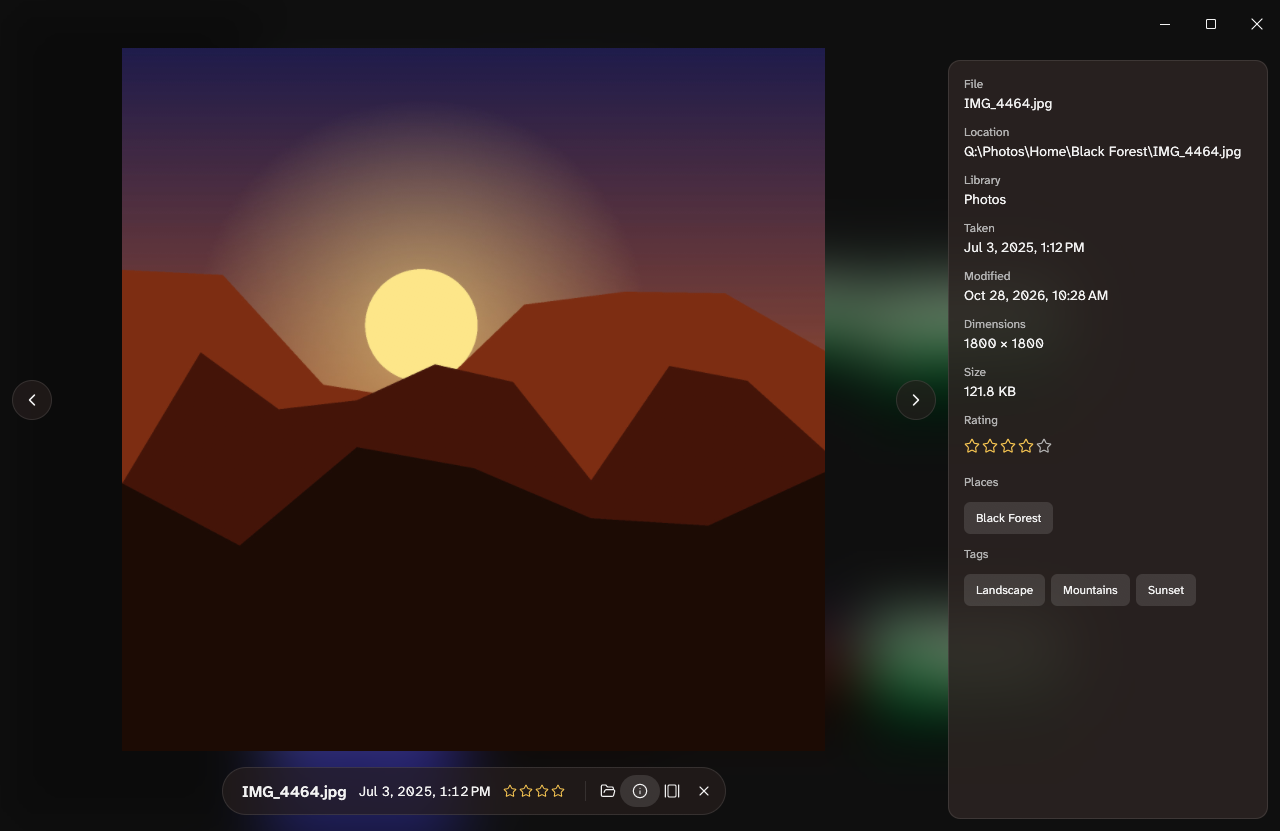
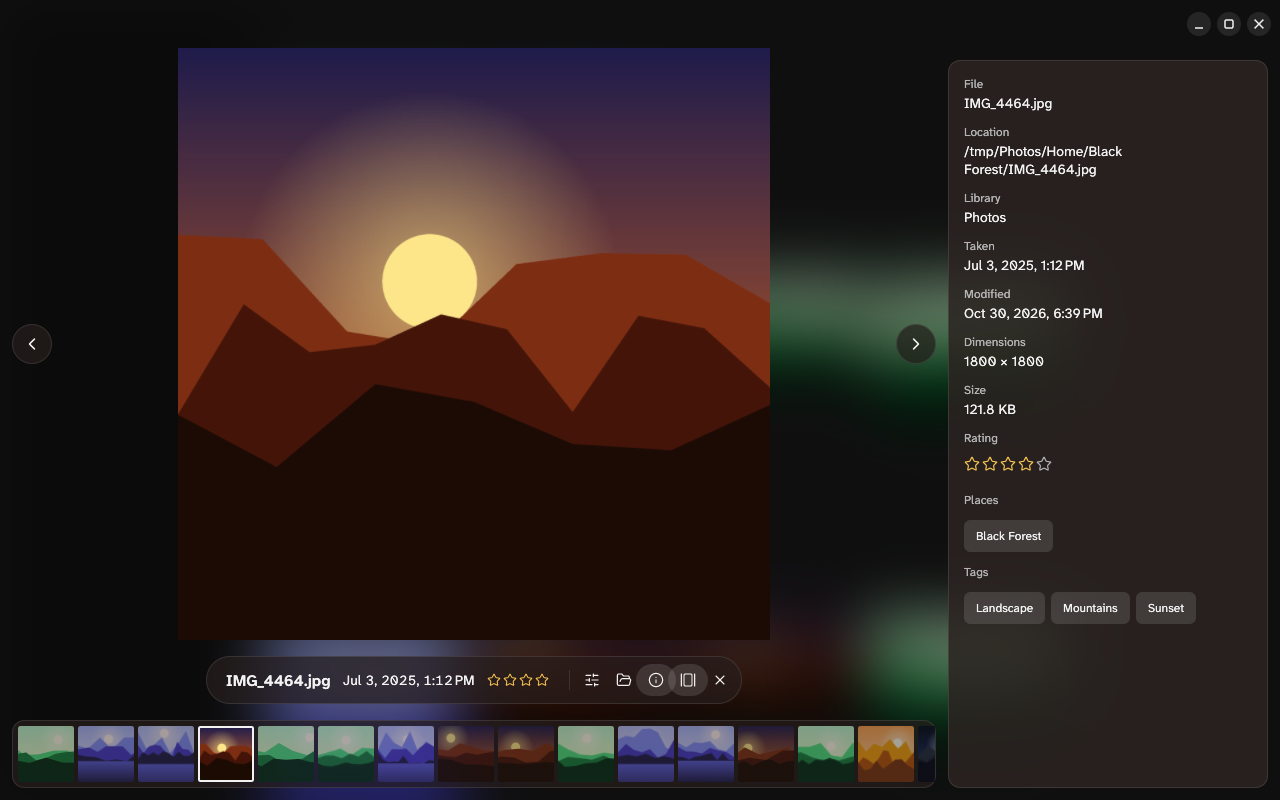
docs(readme): rewrite it, with editing, shortcuts and a screenshot of the editor
The screenshots script gains --edit (the viewer opens editing with a few
adjustments) and stores the filmstrip setting as the app reads it, so the
viewer screenshot shows the filmstrip.

diff --git a/crates/app/src/desktop.rs b/crates/app/src/desktop.rs
@@ -17,6 +17,7 @@ struct Options {
     bench_scroll: Option<f32>,
     view: Option<usize>,
     info: bool,
+    edit: bool,
     scroll: Option<f32>,
 }
 
@@ -124,6 +125,8 @@ struct GalleryApp {
     view: Option<usize>,
     /// `--info`: the viewer opens with its info panel.
     info: bool,
+    /// `--edit`: the viewer opens editing, with a few adjustments made (README screenshot).
+    edit: bool,
     /// `--scroll`: how far to scroll the gallery once it has loaded.
     scroll: Option<f32>,
     /// Windows' animation and transparency effects, followed while the app runs.
@@ -141,7 +144,18 @@ impl eframe::App for GalleryApp {
         {
             self.view = None;
             viewer.set_info_open(self.info);
+            if self.edit {
+                viewer.request_edit();
+            }
             self.state.viewer = Some(viewer);
+            ui.ctx().request_repaint();
+        }
+        if self.edit
+            && let Some(session) = self.state.viewer.as_mut().and_then(app::viewer::Viewer::editing_mut)
+            && session.is_loaded()
+        {
+            self.edit = false;
+            session.commit(demo_recipe());
             ui.ctx().request_repaint();
         }
         if let Some(offset) = self.scroll
@@ -205,9 +219,27 @@ fn default_data_dir() -> anyhow::Result<PathBuf> {
     Ok(app::startup::default_data_dir(&base, cfg!(feature = "packaged")))
 }
 
+/// The adjustments the `--edit` screenshot shows: a little brighter and warmer, with more punch.
+fn demo_recipe() -> domain::edit::Recipe {
+    use domain::edit::Adjustment;
+    let mut recipe = domain::edit::Recipe::default();
+    for (adjustment, value) in [
+        (Adjustment::Exposure, 0.35),
+        (Adjustment::Contrast, 20.0),
+        (Adjustment::Highlights, -30.0),
+        (Adjustment::Shadows, 25.0),
+        (Adjustment::Temperature, 12.0),
+        (Adjustment::Vibrance, 30.0),
+        (Adjustment::Vignette, -25.0),
+    ] {
+        adjustment.set(&mut recipe, value);
+    }
+    recipe
+}
+
 fn parse_args() -> anyhow::Result<Options> {
     const USAGE: &str = "usage: app [--data-dir <folder>] [--screenshot <file.png> [--screenshot-after <seconds>]] \
-                         [--bench-scroll <seconds>] [--view <position> [--info]] [--scroll <points>]";
+                         [--bench-scroll <seconds>] [--view <position> [--info] [--edit]] [--scroll <points>]";
     let mut args = std::env::args().skip(1);
     let mut data_dir = None;
     let mut screenshot = None;
@@ -215,6 +247,7 @@ fn parse_args() -> anyhow::Result<Options> {
     let mut bench_scroll = None;
     let mut view = None;
     let mut info = false;
+    let mut edit = false;
     let mut scroll = None;
     while let Some(arg) = args.next() {
         match arg.as_str() {
@@ -231,6 +264,7 @@ fn parse_args() -> anyhow::Result<Options> {
             }
             "--view" => view = Some(args.next().context(USAGE)?.parse().context(USAGE)?),
             "--info" => info = true,
+            "--edit" => edit = true,
             "--scroll" => scroll = Some(args.next().context(USAGE)?.parse().context(USAGE)?),
             other => anyhow::bail!("unknown argument {other} ({USAGE})"),
         }
@@ -246,6 +280,7 @@ fn parse_args() -> anyhow::Result<Options> {
         bench_scroll,
         view,
         info,
+        edit,
         scroll,
     })
 }
@@ -575,6 +610,7 @@ fn run(options: Options) -> anyhow::Result<()> {
                 bench: options.bench_scroll.map(Bench::new),
                 view: options.view,
                 info: options.info,
+                edit: options.edit,
                 scroll: options.scroll,
                 preferences: Default::default(),
             }))

diff --git a/xtask/src/screenshots.rs b/xtask/src/screenshots.rs
@@ -413,8 +413,10 @@ pub fn run(args: &[String]) -> anyhow::Result<()> {
         screenshot(&app, &data, &out.join(format!("{view}.png")), &[])?;
     }
     db::settings::set_value(&conn, "gallery.view", &serde_json::Value::from("masonry"))?;
-    db::settings::set_value(&conn, "viewer.filmstrip", &serde_json::Value::from(true))?;
+    db::settings::set_value(&conn, "viewer.filmstrip", &serde_json::Value::from("shown"))?;
     screenshot(&app, &data, &out.join("viewer.png"), &["--view", "3", "--info"])?;
+    db::settings::set_value(&conn, "viewer.filmstrip", &serde_json::Value::from("hidden"))?;
+    screenshot(&app, &data, &out.join("edit.png"), &["--view", "5", "--edit"])?;
     Ok(())
 }
 

diff --git a/crates/app/src/viewer.rs b/crates/app/src/viewer.rs
@@ -337,6 +337,11 @@ impl Viewer {
         }
     }
 
+    /// Starts editing the shown photo with the next frame, as `e` does.
+    pub fn request_edit(&mut self) {
+        self.toggle_edit = true;
+    }
+
     /// The edit of the shown photo, while editing (spec 021).
     pub fn editing(&self) -> Option<&EditSession> {
         self.edit.as_ref()

diff --git a/README.md b/README.md
@@ -1,110 +1,140 @@
 # Good Gallery
 
-A desktop gallery for large photo and video libraries on Windows and Linux.  
-Media appear in a virtualized masonry, justified, grid or list view. Libraries on network shares are supported, and thumbnails are cached locally. Search uses the tags that are already embedded in your files.
+A fast desktop gallery for large photo and video libraries, from a few thousand files to half a million, on local disks or network shares. It finds photos by the tags, ratings and dates already in your files, and lets you touch them up without opening another program.
 
-There's also a web version available for you to try it out (all your data still stays local): Try it without installing at [flayms.github.io/Good-Gallery](https://flayms.github.io/Good-Gallery/)
+Runs on Windows and Linux. To try it without installing, open the [web version](https://flayms.github.io/Good-Gallery/): your photos stay on your computer.
 
-[Try the web version](https://good-gallery-web.example.com)
+Written in Rust (egui on wgpu).
 
-Built in Rust with eframe / egui on wgpu.
-
-![Masonry view with the sidebar showing libraries, people, places, ratings and tags](docs/screenshots/masonry.png)
+![The masonry view with the sidebar: libraries, people, places, ratings and tags](docs/screenshots/masonry.png)
 
 ## Features
 
-- **Views:** Masonry (columns), Justified (rows of equal height), Grid (square tiles) and List (details). All are virtualized, so they stay fast at any library size. Media are grouped by day, with the date and the number of photos and videos above each day. Switch views, zoom, sort and grouping under _View_, or zoom with Ctrl + mouse wheel. Hold the middle mouse button and move the pointer to autoscroll, as in a browser.
-- **Network shares:** libraries can live on `\\server\share`. Thumbnails (WebP and ThumbHash placeholders) are cached locally, and the cached index stays browsable while a share is offline.
-- **Change detection:** a file watcher picks up changes, plus periodic quick scans. Manual rescans are also possible.
-- **Search:** combine tags (include or exclude, hierarchical), file name text and folder; media type, date range and rating are under _Filters_. Sort by date taken, date modified, name, path or size.
-- **Sidebar:** libraries with a folder tree, People and Places (from keyword hierarchies and face regions), ratings and popular tags. Hide it with the button in its header or Ctrl + B.
-- **Viewer:** the photo floats over the blurred window, with controls that step aside while you look. Keyboard navigation, an optional filmstrip to jump through the gallery, zoom and pan, video playback, a metadata panel and "Show in Explorer".
-- **Look:** neutral chrome so only your photos bring color, dark or light (following your system, or chosen in the settings); the toolbar and menus are frosted glass over the gallery, and the viewer is always dark.
-- **Read-only:** tags and ratings come from EXIF / IPTC / XMP and `.xmp` sidecars. Files are never modified.
+- **Four views:** Masonry, Justified, Grid and List, grouped by day. Scrolling stays smooth with hundreds of thousands of items.
+- **Libraries anywhere:** add local folders or network shares (`\\server\share`). Thumbnails are cached on your computer, so an offline share stays browsable.
+- **Always up to date:** changes on disk are picked up as they happen, with periodic checks for anything missed.
+- **Search by what's in your files:** tags from EXIF, IPTC, XMP and `.xmp` sidecars (Lightroom, digiKam, darktable and others), including hierarchies like `Places|Italy|Rome` and face regions as _People_. Filter by file name, folder, date, rating and type, and sort by date, name, path or size.
+- **Viewer:** step through the gallery, zoom and pan, play videos, see a photo's details and a filmstrip of the gallery.
+- **Editing:** exposure, contrast, highlights, shadows, whites and blacks; tone curves; white balance, vibrance and saturation; grain and vignette. Save as a copy, or over the original, which is kept so you can revert. Edits stay editable, and metadata and color profiles are kept.
+- **Light or dark,** following your system.
 
-| Justified                                                             | Grid                                                     |
-| --------------------------------------------------------------------- | -------------------------------------------------------- |
-| ![Justified view](docs/screenshots/justified.png)                     | ![Grid view](docs/screenshots/grid.png)                  |
-| **List**                                                              | **Viewer**                                               |
-| ![List view with dates, sizes and ratings](docs/screenshots/list.png) | ![Viewer with the info panel](docs/screenshots/viewer.png) |
+Good Gallery doesn't write tags or ratings. It only writes files when you save or revert an edit.
 
-Supported formats: JPEG, PNG, WebP, GIF and AVIF images, plus videos (MP4, MOV, MKV, WebM and more, with poster-frame thumbnails).
+| Justified                                                   | Grid                                                                     |
+| ----------------------------------------------------------- | ------------------------------------------------------------------------ |
+| ![Justified view](docs/screenshots/justified.png)           | ![Grid view](docs/screenshots/grid.png)                                  |
+| **List**                                                    | **Viewer**                                                               |
+| ![List view](docs/screenshots/list.png)                     | ![Viewer with the info panel and filmstrip](docs/screenshots/viewer.png) |
+| **Editing**                                                 |                                                                          |
+| ![Editing a photo in the viewer](docs/screenshots/edit.png) |                                                                          |
+
+**Formats:** JPEG, PNG, WebP, GIF and AVIF photos; MP4, M4V, MOV, WebM and MKV videos. JPEG, PNG and WebP photos can be edited.
 
 ## Install
 
+### Windows
+
 Download from the [releases](https://github.com/Flayms/Good-Gallery/releases) (Windows 10 or 11, 64-bit):
 
-- **`good-gallery-<version>-windows-x64-setup.exe`:** installs for your user (no admin rights), into a folder you can change, with a Start menu shortcut. Uninstall it under _Settings → Apps_.
-- **`good-gallery-<version>-windows-x64-portable.zip`:** extract anywhere and run `good-gallery.exe`.
+- **`good-gallery-<version>-windows-x64-setup.exe`** installs for your user, without admin rights.
+- **`good-gallery-<version>-windows-x64-portable.zip`** runs from wherever you extract it.
 
-exiftool, ffmpeg and libmpv come with both. The downloads aren't code-signed yet, so Windows SmartScreen may warn: choose _More info_ → _Run anyway_, or unblock the zip (_Properties_ → _Unblock_) before extracting.
+Both include exiftool, ffmpeg and libmpv. The downloads aren't code-signed yet, so SmartScreen may warn: choose _More info_ → _Run anyway_ (for the zip: _Properties_ → _Unblock_ before extracting).
 
-Add a library folder under **Settings**. The index, settings, thumbnails and logs live in `%APPDATA%\good-gallery`. Updates keep using it, so nothing is indexed twice. Uninstalling keeps that folder.
+Your index, settings and thumbnails live in `%APPDATA%\good-gallery`. Updates reuse it, and uninstalling leaves it in place.
 
 ### Linux
 
-**`good-gallery-<version>-linux-x64.tar.gz`** (x86-64, X11 or Wayland) uses your distribution's exiftool, ffmpeg and libmpv. Install them first, e.g. on Ubuntu or Debian `sudo apt install libimage-exiftool-perl ffmpeg libmpv2`. Extract the archive and run `./good-gallery`, or `./install.sh` to install it for your user with an app menu entry (`./install.sh --uninstall` removes it). The data folder is `~/.local/share/good-gallery`.
+Download **`good-gallery-<version>-linux-x64.tar.gz`** (x86-64, X11 or Wayland). It uses your distribution's helpers; on Ubuntu or Debian:
+
+```sh
+sudo apt install libimage-exiftool-perl ffmpeg libmpv2
+```
+
+Extract the archive and run `./good-gallery`, or `./install.sh` to add it to your app menu (`./install.sh --uninstall` removes it). Data lives in `~/.local/share/good-gallery`.
 
 ### In the browser
 
-Try it without installing at **[flayms.github.io/Good-Gallery](https://flayms.github.io/Good-Gallery/)**: pick a folder of photos and videos, and the same gallery, search, sidebar and viewer run in the page. There is no server. The index and thumbnails stay in your browser's storage, and nothing leaves your computer (the page's content security policy forbids it any other connection). It works in current Chrome, Edge, Firefox and Safari on a computer. Chrome and Edge remember the folder between visits (after one confirmation); in Firefox and Safari you pick it again to view originals or rescan. The browser version reads what the browser can show (JPEG, PNG, WebP, GIF, AVIF; MP4, WebM and, where the browser plays it, MOV) and is meant for libraries up to about 20,000 files; network shares, watchers and scheduled checks are desktop only.
+Try it at **[flayms.github.io/Good-Gallery](https://flayms.github.io/Good-Gallery/)** without installing anything. Pick a folder and browse it with the same gallery, search and viewer. Nothing is uploaded: the index and thumbnails stay in your browser. It works in current Chrome, Edge, Firefox and Safari, for folders up to about 20,000 files. Network shares and editing need the desktop app.
+
+## Getting started
+
+Open **Settings**, add a folder as a library and wait for the first indexing to finish. Then:
+
+| Where   | Key                           | Does                                |
+| ------- | ----------------------------- | ----------------------------------- |
+| Gallery | Ctrl + mouse wheel            | Bigger or smaller tiles             |
+| Gallery | Hold the middle mouse button  | Autoscroll                          |
+| Gallery | Ctrl + B                      | Hide or show the sidebar            |
+| Gallery | Enter, or a click             | Open in the viewer                  |
+| Viewer  | ← / →                         | Previous / next                     |
+| Viewer  | + / − / 0, mouse wheel, click | Zoom in, out, fit                   |
+| Viewer  | I / F                         | Info panel / filmstrip              |
+| Viewer  | Space, ↑ / ↓                  | Play or pause a video, volume       |
+| Viewer  | E                             | Edit the photo                      |
+| Viewer  | Esc                           | Close (while editing: stop editing) |
+| Editing | Ctrl + Z / Ctrl + Shift + Z   | Undo / redo                         |
+| Editing | Hold \\                       | Compare with the original           |
+| Editing | Double-click a slider         | Reset it                            |
+
+Edited photos saved over their original show _Revert to original_ in the info panel.
 
 ## Development
 
 ### Requirements
 
-**Everywhere:** Rust through [rustup](https://rustup.rs). `rust-toolchain.toml` pins the version, and the first `cargo` command installs it.
+- **Rust** through [rustup](https://rustup.rs); `rust-toolchain.toml` pins the version.
+- **Windows:** the MSVC build tools with the Windows SDK:
 
-**Windows:**
+  ```powershell
+  winget install Microsoft.VisualStudio.2022.BuildTools --override "--wait --passive --add Microsoft.VisualStudio.Workload.VCTools --includeRecommended"
+  ```
 
-- The MSVC C++ build tools with the Windows SDK:
-  `winget install Microsoft.VisualStudio.2022.BuildTools --override "--wait --passive --add Microsoft.VisualStudio.Workload.VCTools --includeRecommended"`
-- The helpers (exiftool for indexing, ffmpeg for video thumbnails, libmpv for playback): run `./packaging/fetch-helpers.ps1` once. It puts them in `target/helpers/`. For `cargo run` and the tests, point `GOOD_GALLERY_EXIFTOOL`, `GOOD_GALLERY_FFMPEG` and `GOOD_GALLERY_MPV` at the files there, or put the programs on `PATH`. Without them, the tests that need them skip.
-- For the installer (`cargo xtask dist`): [NSIS](https://nsis.sourceforge.io), `winget install NSIS.NSIS`, or set `MAKENSIS` to a `makensis.exe`. `cargo xtask dist --no-installer` builds only the portable zip.
+  Run `./packaging/fetch-helpers.ps1` once for exiftool, ffmpeg and libmpv (into `target/helpers/`), then point `GOOD_GALLERY_EXIFTOOL`, `GOOD_GALLERY_FFMPEG` and `GOOD_GALLERY_MPV` at them or put them on `PATH`. Tests that need a missing helper skip themselves. The installer needs [NSIS](https://nsis.sourceforge.io) (`winget install NSIS.NSIS`).
 
-**Linux (Ubuntu):**
+- **Linux (Ubuntu):**
 
-- `sudo apt install build-essential pkg-config libimage-exiftool-perl ffmpeg libmpv2 mesa-vulkan-drivers`. The helpers come from the system here. `mesa-vulkan-drivers` gives the snapshot tests a software GPU.
-- Optional: `xvfb`, so that `--screenshot` runs without a display.
+  ```sh
+  sudo apt install build-essential pkg-config libimage-exiftool-perl ffmpeg libmpv2 mesa-vulkan-drivers xvfb
+  ```
 
-**Browser version:**
+  `mesa-vulkan-drivers` gives the snapshot tests a software GPU; `xvfb` runs `--screenshot` without a display.
 
-- The `wasm32-unknown-unknown` target (`rust-toolchain.toml` installs it)
-- clang (compiles SQLite for wasm)
-- [Trunk](https://trunkrs.dev): `cargo install --locked trunk`
-- For its tests, Node.js with `npm`. On Linux, Playwright's Chromium needs `sudo npx playwright install-deps chromium` once.
+- **Browser version:** clang, [Trunk](https://trunkrs.dev) (`cargo install --locked trunk`), and Node.js for its tests (on Linux once: `sudo npx playwright install-deps chromium`).
+- **Releases:** `cargo install --locked git-cliff@2.14.2`.
 
-**Releases:** git-cliff, the version CI uses: `cargo install --locked git-cliff@2.14.2` (or point `GIT_CLIFF` at it).
-
-Builds other than the packaged app (`cargo xtask dist`) keep their data in `%APPDATA%\good-gallery-rust` (Linux: `~/.local/share/good-gallery-rust`), so development never touches the real index.
+Development builds keep their data in `%APPDATA%\good-gallery-rust` (Linux: `~/.local/share/good-gallery-rust`), away from your real index.
 
 ### Commands
 
-| Command                             | Purpose                                                                                                        |
-| ----------------------------------- | -------------------------------------------------------------------------------------------------------------- |
-| `cargo run -p app`                  | Run the app (`-- --data-dir <folder>` for another data folder)                                                 |
-| `cargo test --workspace`            | All tests, including the UI snapshot tests                                                                     |
-| `cargo clippy --workspace --all-targets -- -D warnings` | Lint                                                                                       |
-| `cargo fmt --all`                   | Format                                                                                                         |
-| `cargo xtask check-specs`           | Check that specs and tests reference each other                                                                |
-| `cargo xtask screenshots`           | Render the README screenshots into `docs/screenshots/` from a generated demo library (needs exiftool, ffmpeg)  |
-| `cargo xtask dist`                  | Build the installer and the portable zip into `target/dist/` (needs the helpers and NSIS); on Linux the `.tar.gz` |
-| `cargo xtask release`               | Cut a release: bump the version, update `CHANGELOG.md`, tag and push (`--dry-run` previews; needs git-cliff)   |
-| `cargo xtask web`                   | Build the browser version into `target/web/` (serve it locally with `node web/tests/serve.mjs`)                 |
-| `cargo xtask web-test`              | Build the browser version and run its end-to-end tests in Chromium (`--update-snapshots` after UI changes)      |
+| Command                                                 | Does                                                                                   |
+| ------------------------------------------------------- | -------------------------------------------------------------------------------------- |
+| `cargo run -p app`                                      | Run the app (`-- --data-dir <folder>` for another data folder)                         |
+| `cargo test --workspace`                                | All tests, including UI snapshots (`UPDATE_SNAPSHOTS=1` rewrites them)                 |
+| `cargo clippy --workspace --all-targets -- -D warnings` | Lint                                                                                   |
+| `cargo fmt --all`                                       | Format                                                                                 |
+| `cargo xtask check-specs`                               | Check that specs and tests reference each other                                        |
+| `cargo xtask screenshots`                               | Render the screenshots above from a generated demo library (needs exiftool and ffmpeg) |
+| `cargo xtask dist`                                      | Build the installer and portable zip, or on Linux the `.tar.gz`, into `target/dist/`   |
+| `cargo xtask web`                                       | Build the browser version into `target/web/`                                           |
+| `cargo xtask web-test`                                  | Build the browser version and run its tests in Chromium                                |
+| `cargo xtask release`                                   | Cut a release (see below)                                                              |
 
-CI ([.github/workflows/ci.yml](.github/workflows/ci.yml)) checks formatting, clippy, the specs and all tests on pull requests and on pushes to `main`, on Windows and Linux, and builds and tests the browser version.
+CI runs formatting, clippy, the spec check and all tests on Windows, Linux and in the browser for every pull request.
 
 ### Releases
 
-Commit messages follow [Conventional Commits](https://www.conventionalcommits.org) (`feat: …`, `fix(viewer): …`, `feat!: …` for breaking changes). On an up-to-date, clean `main`, run `cargo xtask release`. It derives the next version from the commits since the last tag (breaking → major, or minor before 1.0; `feat` → minor; else patch), shows the release notes and asks before it sets the version in `Cargo.toml`, commits it with `CHANGELOG.md`, tags `vX.Y.Z` and pushes. Pass `major`, `minor`, `patch` or a version like `1.2.3` to override, `--yes` to skip the question. The pushed tag starts the [release workflow](.github/workflows/release.yml): it runs the checks, builds the installer and the portable zip, smoke-tests the installed app, publishes the GitHub release and deploys the browser version to GitHub Pages.
+Commits follow [Conventional Commits](https://www.conventionalcommits.org) (`feat: …`, `fix(viewer): …`, `feat!: …`). On a clean, up-to-date `main`, `cargo xtask release` picks the next version from the commits since the last tag, shows the release notes and, once you confirm, updates `Cargo.toml` and `CHANGELOG.md`, tags and pushes. The tag starts the [release workflow](.github/workflows/release.yml), which builds, smoke-tests and publishes the downloads and deploys the browser version. Pass `major`, `minor`, `patch` or a version to override, `--dry-run` to preview.
 
-- [docs/architecture.md](docs/architecture.md): architecture and decisions
-- [docs/glossary.md](docs/glossary.md): domain terms
-- [docs/specs/](docs/specs/): feature specs and their plans
-- [Issues](https://github.com/Flayms/Good-Gallery/issues): upcoming features, bugs and tasks
-- [AGENTS.md](AGENTS.md): working guidelines for coding agents
+### Further reading
+
+- [docs/architecture.md](docs/architecture.md): how it is built, and why
+- [docs/design.md](docs/design.md): visual design
+- [docs/glossary.md](docs/glossary.md): terms
+- [docs/specs/](docs/specs/): feature specs
+- [AGENTS.md](AGENTS.md): guidelines for coding agents
+- [Issues](https://github.com/Flayms/Good-Gallery/issues): what's next
 
 ## License
 
-[GPL-3.0](LICENSE). The bundled ffmpeg and libmpv builds are GPL as well; see `packaging/windows/THIRD-PARTY-NOTICES.txt`.
+[GPL-3.0](LICENSE). The bundled ffmpeg and libmpv builds are GPL too; see `packaging/windows/THIRD-PARTY-NOTICES.txt`.
